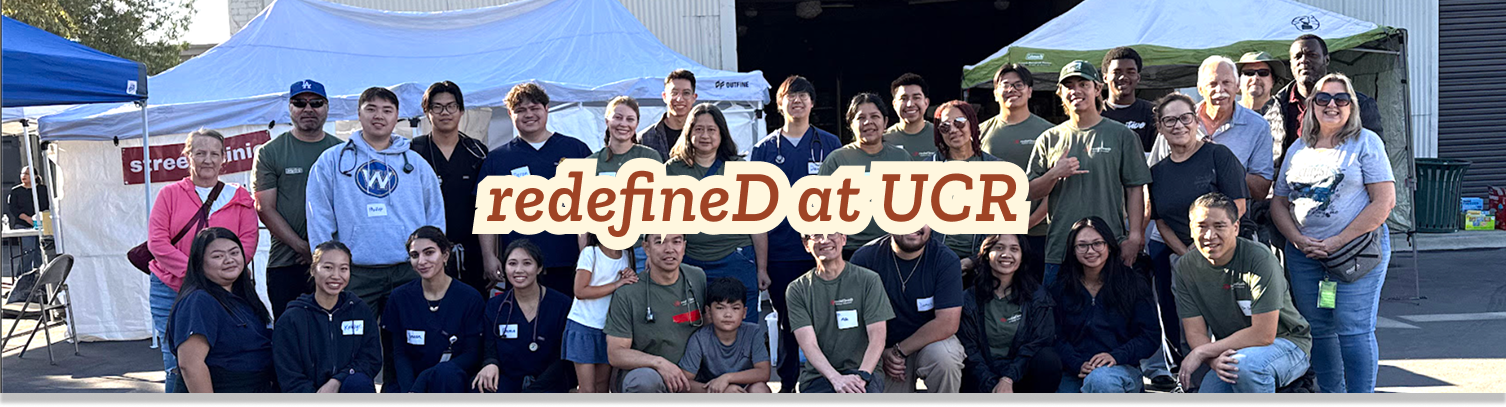
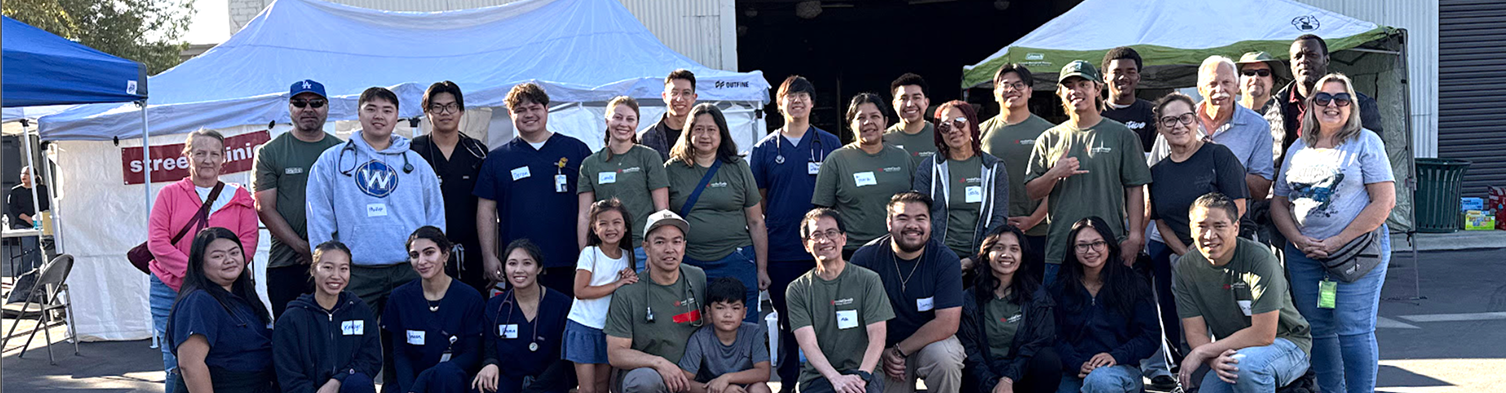
split text and image and deleted unused images

diff --git a/src/components/home/lander.tsx b/src/components/home/lander.tsx
@@ -1,10 +1,24 @@
 import Image from "next/image";
 import Picture from "@/public/Landing_Pic.png";
+import Picture_Text from "@/public/Landing_pic_text.svg";
 const Lander = () => {
   return (
     //adds landing picture and makes it so that the picture's width is the entire screen
-    <div className="flex w-screen justify-center">
-      <Image className="w-full" src={Picture} alt="Landing Picture" />
+    <div>
+      <div className="flex w-screen justify-center">
+        {/* split svg text and landing banner picture */}
+        <Image
+          className="absolute mt-[200px] flex w-1/3 items-center justify-center"
+          src={Picture_Text}
+          alt="Landing Picture"
+        />
+        {/* Landing banner image */}
+        <Image
+          className="flex w-full justify-center"
+          src={Picture}
+          alt="Landing Picture"
+        />
+      </div>
     </div>
   );
 };

diff --git a/src/components/home/joinUs.tsx b/src/components/home/joinUs.tsx
@@ -6,8 +6,7 @@ const JoinUs = () => {
         {/*giving button functionality to join button */}
 
         <button className="bg-redefined-cream border-redefined-olive h-129px font-redefined-albert w-1/4 rounded-[102px] border-[13px] text-[64px] font-[800] text-[#9E4325] italic">
-          {" "}
-          Join us{" "}
+          Join us
         </button>
       </div>
     </Link>
